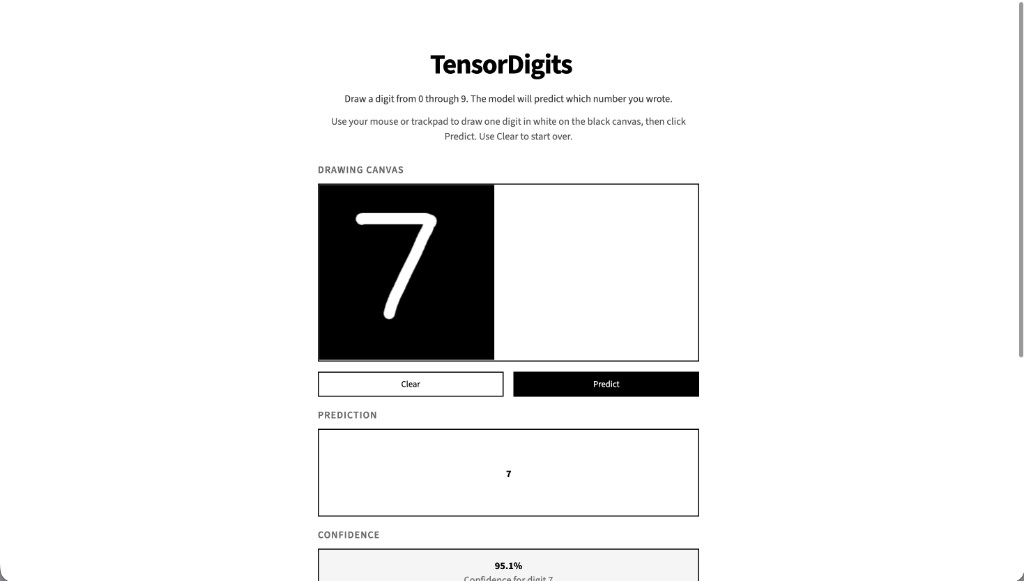
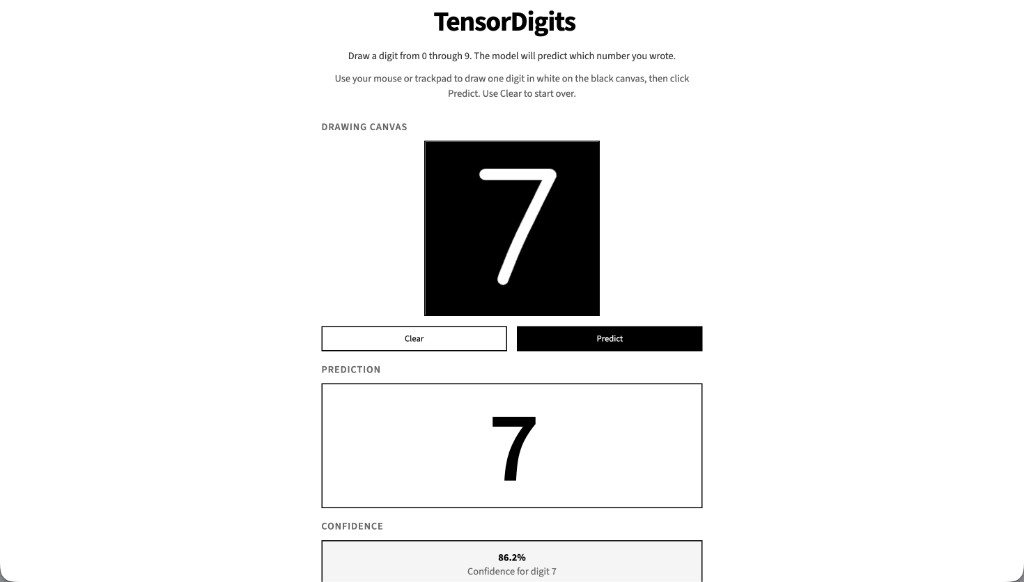
style: enlarge prediction display

diff --git a/app.py b/app.py
@@ -104,7 +104,7 @@ st.markdown(
         .td-predict-panel {
             border: 2px solid #000000;
             background: #FFFFFF;
-            min-height: 140px;
+            min-height: 12rem;
             display: flex;
             flex-direction: column;
             align-items: center;
@@ -112,15 +112,18 @@ st.markdown(
             padding: 1.25rem 1.25rem 1rem 1.25rem;
             margin-bottom: 1rem;
             text-align: center;
+            overflow: hidden;
         }
 
-        .td-digit {
-            font-size: clamp(6rem, 12vw, 7rem);
-            font-weight: 700;
-            line-height: 1;
+        /* Beat Streamlit's default .stMarkdown p font-size so the digit actually enlarges. */
+        div[data-testid="stMarkdownContainer"] div.td-predict-panel p.td-digit {
+            font-size: clamp(6rem, 12vw, 10rem) !important;
+            font-weight: 600 !important;
+            line-height: 1 !important;
+            text-align: center !important;
             letter-spacing: -0.04em;
             color: #000000;
-            margin: 0;
+            margin: 0 !important;
         }
 
         .td-digit-placeholder {
@@ -487,8 +490,20 @@ if error_message:
 
 st.markdown('<p class="td-section-label">Prediction</p>', unsafe_allow_html=True)
 if prediction is not None:
+    # Inline styles guarantee the size even when Streamlit markdown CSS wins
+    # over a bare class selector.
     st.markdown(
-        f'<div class="td-predict-panel"><p class="td-digit">{prediction.digit}</p></div>',
+        f'<div class="td-predict-panel">'
+        f'<p class="td-digit" style="'
+        f"font-size:clamp(6rem, 12vw, 10rem);"
+        f"font-weight:600;"
+        f"line-height:1;"
+        f"text-align:center;"
+        f"letter-spacing:-0.04em;"
+        f"color:#000000;"
+        f"margin:0;"
+        f'">{prediction.digit}</p>'
+        f"</div>",
         unsafe_allow_html=True,
     )
 else:

diff --git a/README.md b/README.md
@@ -8,7 +8,7 @@ Draw a digit from 0–9 on a black canvas. The app converts the stroke into an M
 
 ## Project Preview
 
-![TensorDigits predicting a handwritten 7 with 95.1% confidence](assets/screenshots/prediction-demo.png)
+![TensorDigits predicting a handwritten 7 with 86.2% confidence](assets/screenshots/prediction-demo.png)
 
 *Draw a digit, click Predict, and see the model’s top class with confidence.*
 
